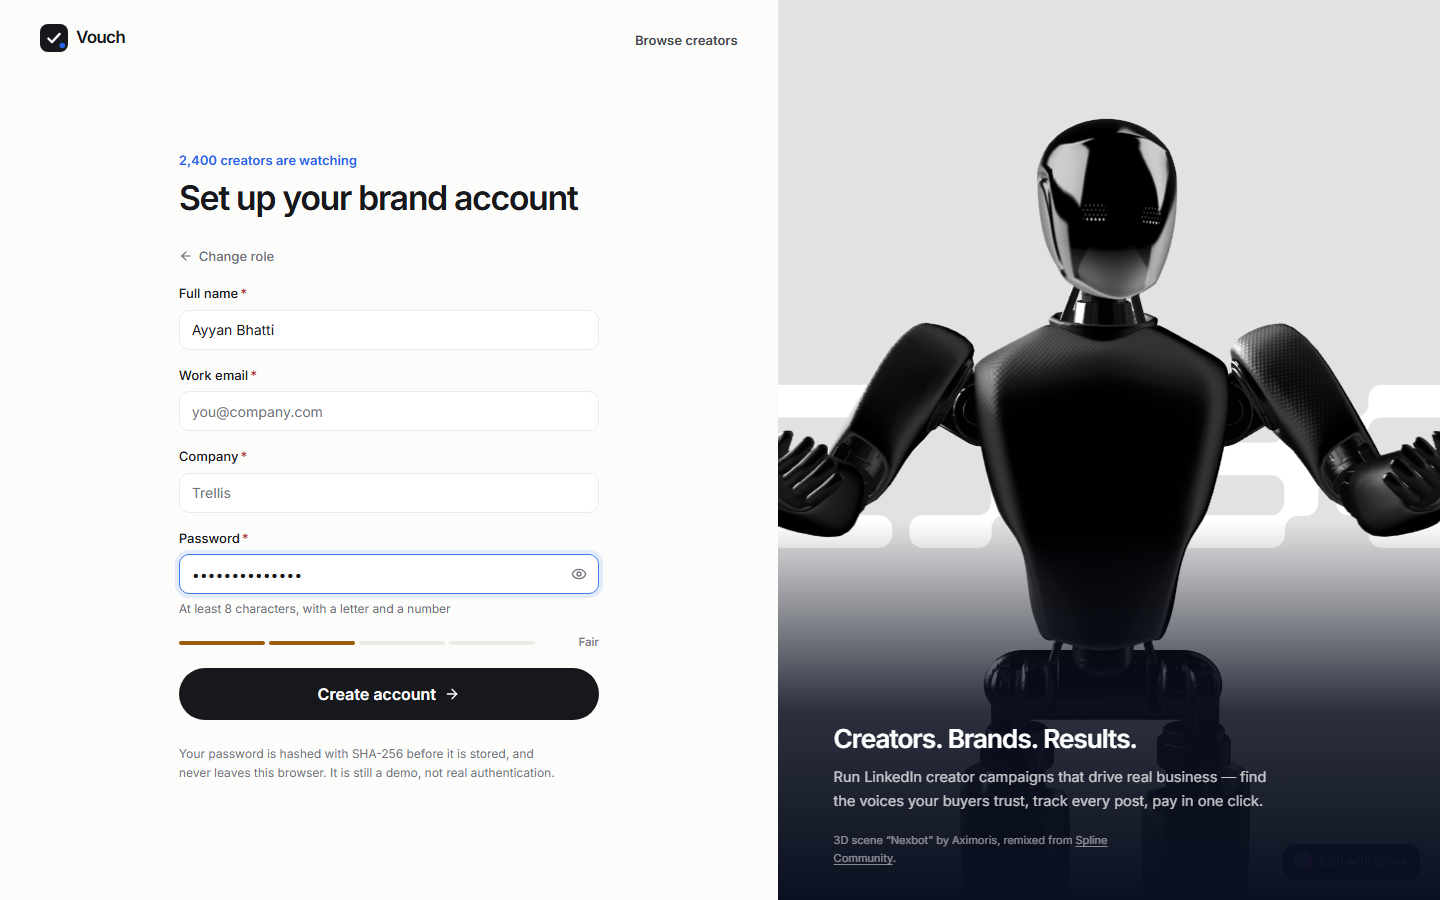
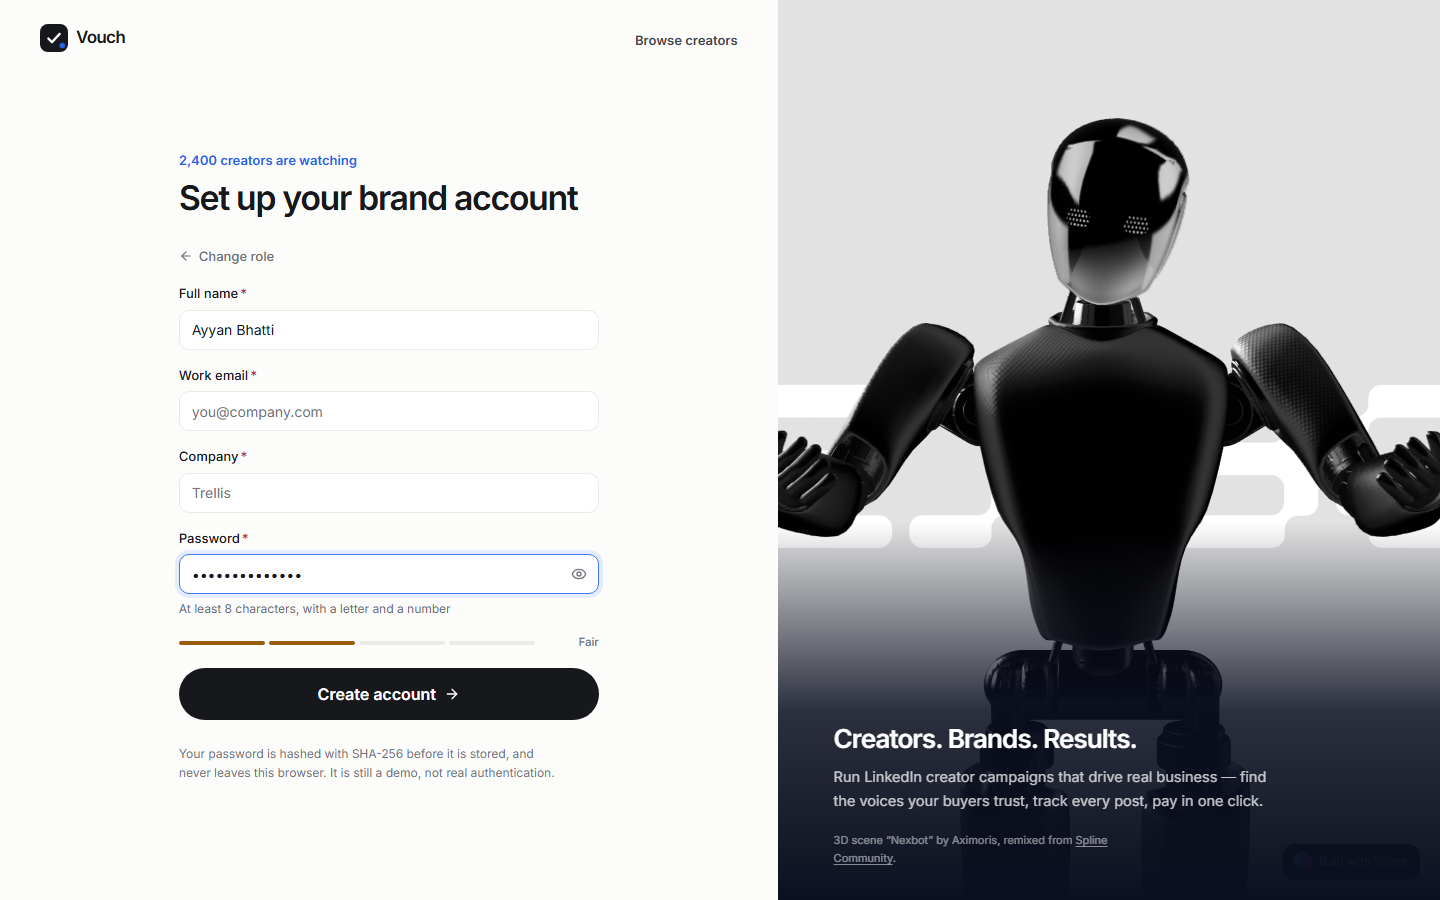
Fix the robot's head: still on load, correct cursor direction, real peek
Three faults, all in the rig.

It drifted on load. The scene arrives part-way through its own idle loop and
the rig immediately started tracking a cursor that had not moved yet, so the
head wandered for no reason the visitor could see. It now holds dead centre
until there is an actual pointer position to follow.

It tracked the cursor backwards. Positive yaw turns the head to the viewer's
right, and the idle branch was computing (0.5 - x) - so the head turned away
from wherever the mouse went. Now (x - 0.5), and the same sign error is
corrected on the torso.

The peek did not look anywhere. It switched poses at peek > 0.5 and turned the
head to +0.18, which is still rotated away from the form - so the glance had
nowhere to land and read as a twitch. The two poses are now blended
continuously on peekProgress, which already ramps 0 -> 1 over 900ms, and the
sneak pose rotates back PAST centre to -0.2 so it is genuinely looking at the
field again. The head stays dipped and takes a roll, which is what makes it
furtive rather than merely turned.

Verified from screenshots rather than from reading the rotations back: the
scene writes to its own objects inside its render pass, so a value read
immediately after ours does not reflect what was drawn.

Suites: calculators 1061/1061, collaboration 79/79, assistant 95/95,
tracking 14/14, review 48/48, motion 29/29, qa 24/24, audit 436/436.

Changed region(s): [[0.7188, 0.1244, 0.8438, 0.3733], [0.5312, 0.4667, 0.5938, 0.56], [0.9375, 0.4667, 1.0, 0.56]]

diff --git a/components/auth/spline-rig.ts b/components/auth/spline-rig.ts
@@ -58,9 +58,20 @@ export function useSplineRig(
   const pointer = useRef({ x: 0.5, y: 0.45 });
   const pose = useRef<Pose>({ ...REST });
 
+  /*
+    Nothing moves until the pointer does.
+
+    The scene arrives mid-way through its own idle loop, and starting to track
+    a cursor that has not moved yet made the head drift on load for no reason
+    the visitor could see. It holds dead centre until there is an actual
+    pointer position to follow.
+  */
+  const engaged = useRef(false);
+
   useEffect(() => {
     if (reduced) return;
     const onMove = (e: PointerEvent) => {
+      engaged.current = true;
       pointer.current = {
         x: e.clientX / Math.max(window.innerWidth, 1),
         y: e.clientY / Math.max(window.innerHeight, 1),
@@ -90,27 +101,43 @@ export function useSplineRig(
 
       if (m === 'away') {
         /*
-          Turned right away from the form and dipped, so it is unmistakably not
-          looking. Peeking brings it most of the way back without settling —
-          it is a glance, not a return.
+          Two poses blended by how long you have been still, rather than
+          switched at a threshold.
+
+          AWAY is turned hard right, away from the form, and dipped. SNEAK
+          rotates back PAST centre so it is actually looking at the form again
+          - the earlier version peeked to +0.18, which is still turned away
+          from it, so the glance went nowhere. The head stays dipped and picks
+          up a roll, which is what makes it read as furtive rather than as
+          simply looking back.
+
+          peekProgress already ramps 0 -> 1 over 900ms, so blending on it
+          directly gives the whole movement for free.
         */
-        const peeking = peek > 0.5;
-        target.headYaw = peeking ? 0.18 : 0.62;
-        target.headPitch = peeking ? 0.04 : 0.26;
-        target.headRoll = peeking ? -0.04 : -0.12;
-        target.bodyYaw = peeking ? 0.06 : 0.2;
+        const AWAY = { yaw: 0.62, pitch: 0.26, roll: -0.12, body: 0.2 };
+        const SNEAK = { yaw: -0.2, pitch: 0.15, roll: -0.2, body: 0.02 };
+
+        target.headYaw = lerp(AWAY.yaw, SNEAK.yaw, peek);
+        target.headPitch = lerp(AWAY.pitch, SNEAK.pitch, peek);
+        target.headRoll = lerp(AWAY.roll, SNEAK.roll, peek);
+        target.bodyYaw = lerp(AWAY.body, SNEAK.body, peek);
       } else if (m === 'watching') {
         // The form is in the left column, so the robot turns that way.
         target.headYaw = -0.42;
         target.headPitch = -0.1;
         target.bodyYaw = -0.14;
-      } else {
-        // Idle: follow the cursor, with a slow sway so it is never quite still.
-        target.headYaw = (0.5 - pointer.current.x) * 0.9 + Math.sin(t * 0.6) * 0.05;
+      } else if (engaged.current) {
+        /*
+          Follow the cursor. Positive yaw turns the head to the viewer's right,
+          so it tracks (x - 0.5) - an earlier version had this inverted and the
+          robot looked away from wherever the mouse went.
+        */
+        target.headYaw = (pointer.current.x - 0.5) * 0.9 + Math.sin(t * 0.6) * 0.05;
         target.headPitch = (pointer.current.y - 0.45) * 0.55;
         target.headRoll = Math.sin(t * 0.45) * 0.03;
-        target.bodyYaw = (0.5 - pointer.current.x) * 0.22;
+        target.bodyYaw = (pointer.current.x - 0.5) * 0.22;
       }
+      // Otherwise the target stays at REST: still, facing front.
 
       const p = pose.current;
       // Turning away is quicker than settling back: a flinch, then a drift.

diff --git a/.agent-logs/2026-09-07_18-02-48_19891bbd-ba47-4749-a765-9d00d0fd9c01.md b/.agent-logs/2026-09-07_18-02-48_19891bbd-ba47-4749-a765-9d00d0fd9c01.md
@@ -5,9 +5,9 @@ author: TODO-github-handle
 model: claude-opus-5
 tool: claude-code
 project: naano-rebuild
-total_exchanges: 42
+total_exchanges: 43
 first_prompt_time: 2026-09-07T18:02:48.591Z
-last_prompt_time: 2026-09-08T15:28:03.978Z
+last_prompt_time: 2026-09-08T15:39:09.057Z
 ---
 
 # Session Log - 2026-09-07
@@ -3075,4 +3075,41 @@ timestamp: 2026-09-08T15:28:03.978Z
 model: claude-opus-5
 
 it still shows the same old ugly ass robo before and then it switches to this new bot which i added gltf model so make sure to remove the old ugly one as it looks so odd and in the pages the smoll chatbot goes the same for it make sure to fix these issues it shouldnt show the ugly blue bot first which you created fix it asap
+
+[LOG_ENTRY type=RESPONSE num=30 session=19891bbd]
+timestamp: 2026-09-08T15:37:57.079Z
+model: claude-opus-5
+
+Fair — two different robots swapping is worse than one. Removing the SVG one entirely.
+
+Two stale comments now describe code that's gone. Fixing those, then rebuilding.
+
+Chat glyph first, then the real robot — no more character swap. Checking the auth panel's pre-load state.
+
+Clean — crowd and statement hold the panel, then the robot takes over. Running the suites.
+
+All green. Committing and pushing.
+
+Fixed and pushed — `63c6e2f`. The blue SVG robot is gone entirely; I deleted the file rather than leaving it lying around.
+
+**What fills the gap now:**
+
+- **Auth panel** — nothing. The blue ground, the crowd and the statement already hold that space perfectly well on their own, and the 3D scene just covers the panel when it arrives. No handover to notice.
+- **Assistant bubble** — a plain chat glyph. A neutral icon giving way to the real thing reads as *loading*; two different mascots trading places read as a *bug*. That was your point and it was right.
+
+The glyph is also the permanent state when the scene genuinely can't load — offline, reduced motion, or `SPLINE_SCENE_URL` empty — which is the case the placeholder existed for in the first place.
+
+All suites still green: calculators 1061 · collaboration 79 · assistant 95 · tracking 14 · review 48 · motion 29 · qa 24 · audit 436.
+
+---
+
+One thing worth knowing before you record: the robot's framing in the bubble **drifts slightly** because the scene plays its own idle loop, so the head isn't always dead-centre in the circle. It's not broken, just not pinned. If it bothers you when you look at it, I can lock the head position in the assistant the same way the auth rig does — say the word.
+
+And the **live link is still the open item**. I can deploy to Vercel whenever you're ready — that's the last thing standing between this and a complete submission.
+
+[LOG_ENTRY type=PROMPT num=43 session=19891bbd]
+timestamp: 2026-09-08T15:39:09.057Z
+model: claude-opus-5
+
+yes make sure its head is stilll at first and like then it should move with the cursor rn it is moving oopsite to the cursor and when i type password it looks in a neaky way but it isnt that much accurate ykwim fix these asap
 
